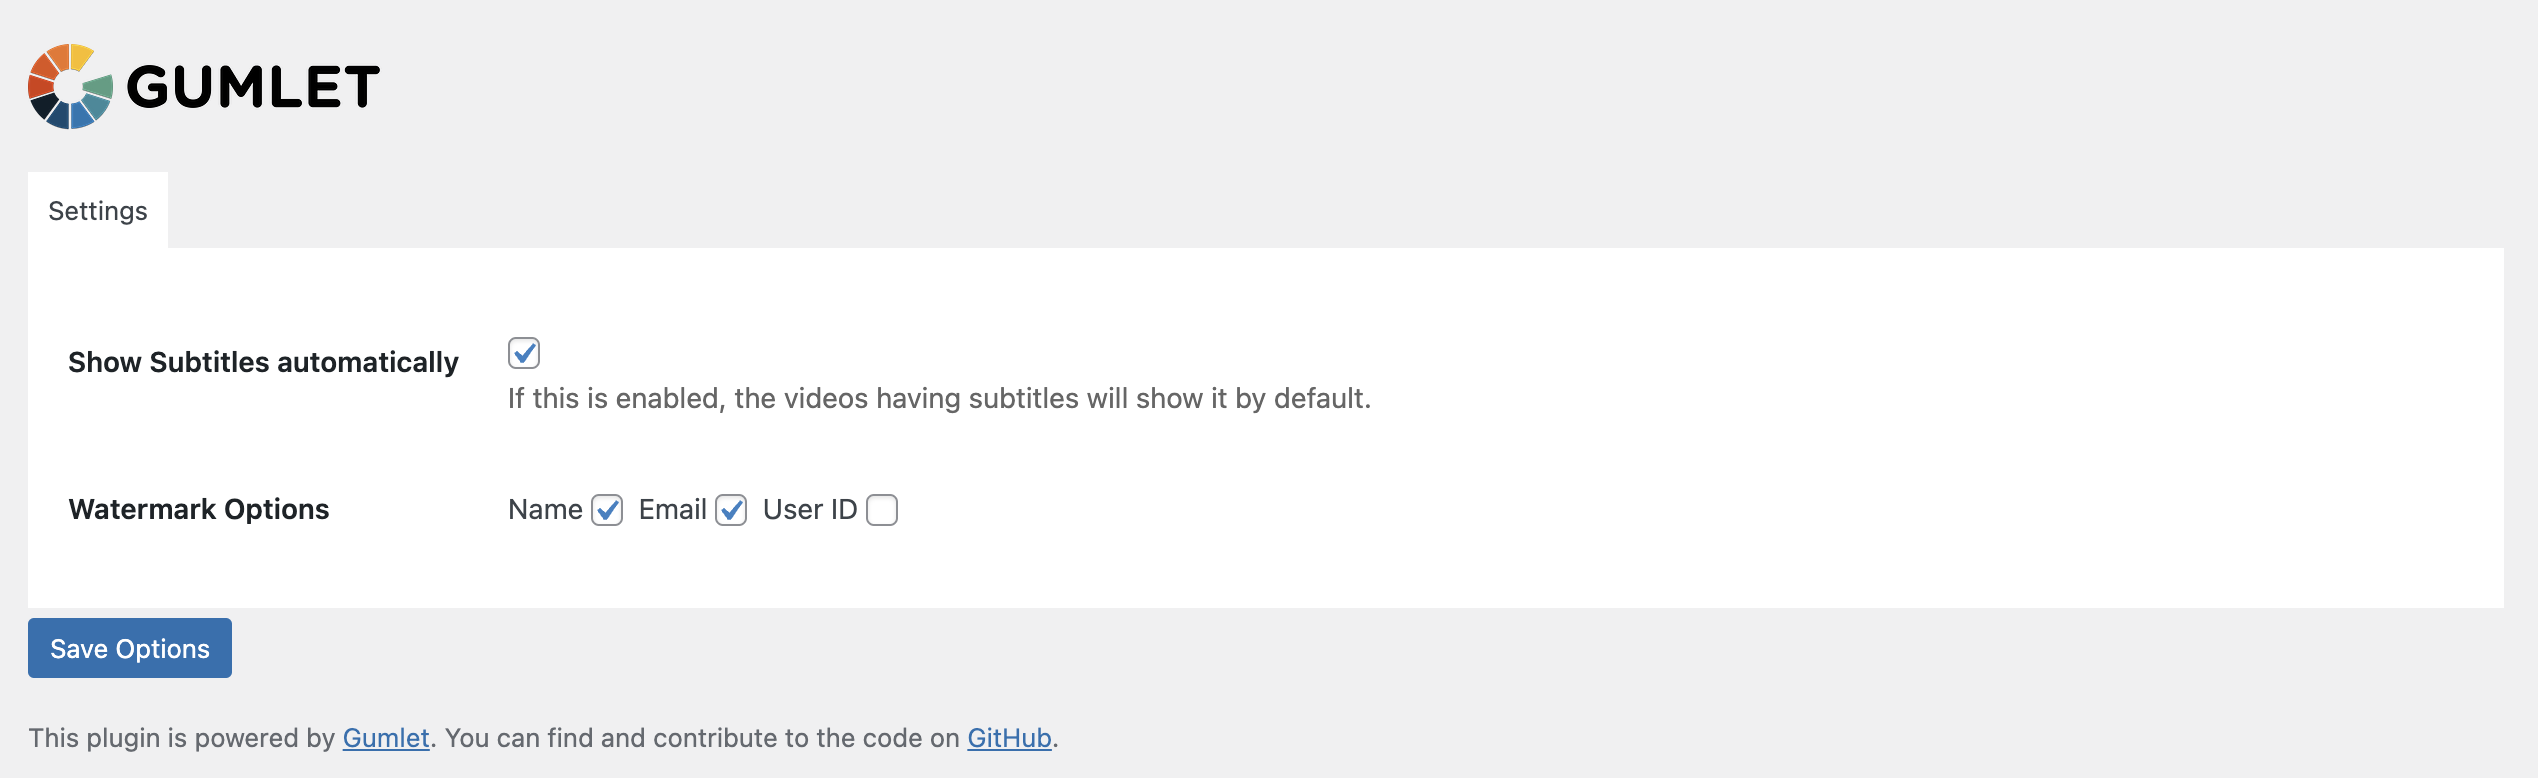
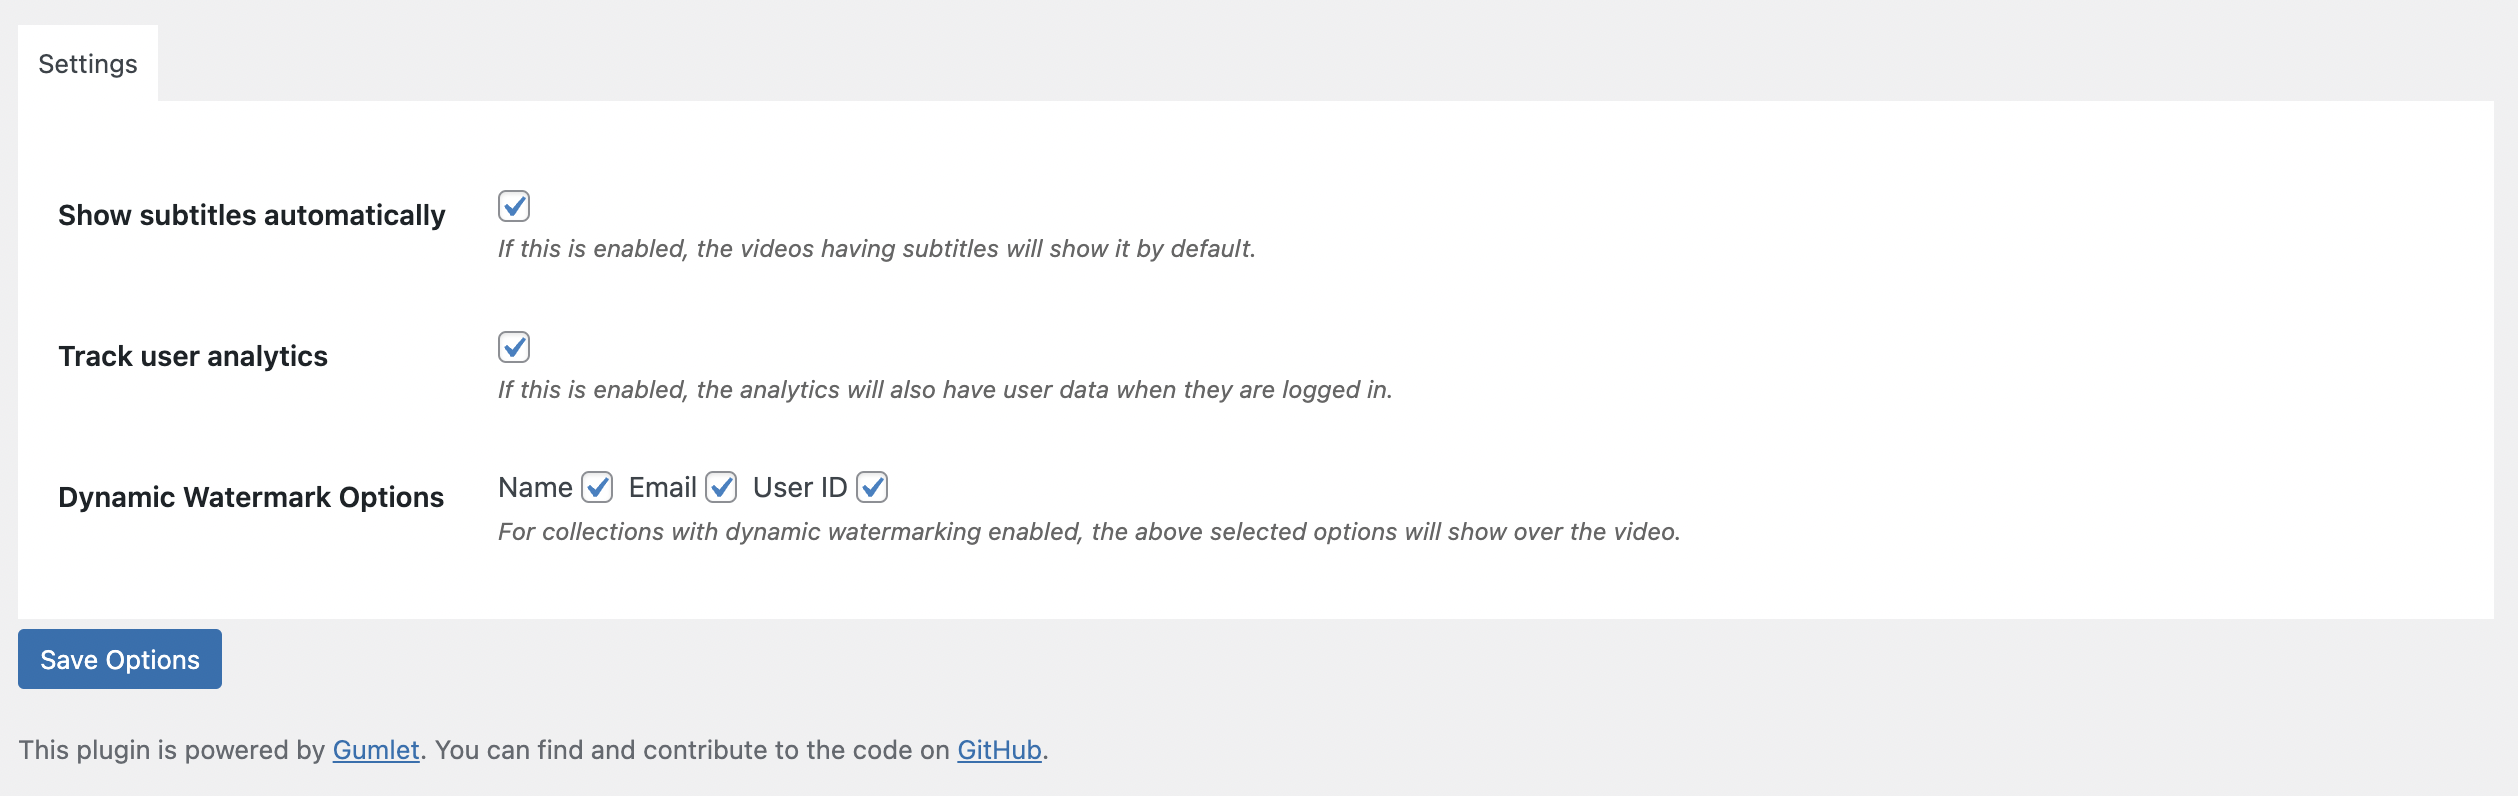
add support for user level analytics

diff --git a/includes/video-options.php b/includes/video-options.php
@@ -64,13 +64,25 @@ class Gumlet_Video_Settings
                         <tr>
                             <th>
                                 <label class="description" for="gumlet_default_cc_enabled">
-                                    <?php esc_html_e('Show Subtitles automatically', 'gumlet-video'); ?>
+                                    <?php esc_html_e('Show subtitles automatically', 'gumlet-video'); ?>
                                 </label>
                             </th>
                             <td>
                                 <input id="gumlet_default_cc_enabled" type="checkbox" name="gumlet_default_cc_enabled" value="1"
                                     <?php checked(get_option('gumlet_default_cc_enabled')) ?> />
                                 <p class="help-text">If this is enabled, the videos having subtitles will show it by default.</p>
+                            </td>
+                        </tr>
+                        <tr>
+                            <th>
+                                <label class="description" for="gumlet_default_user_analytics">
+                                    <?php esc_html_e('Track user analytics', 'gumlet-video'); ?>
+                                </label>
+                            </th>
+                            <td>
+                                <input id="gumlet_default_user_analytics" type="checkbox" name="gumlet_default_user_analytics" value="1"
+                                    <?php checked(get_option('gumlet_default_user_analytics')) ?> />
+                                <p class="help-text">If this is enabled, the analytics will also have user data when they are logged in.</p>
                             </td>
                         </tr>
                         <tr id="dynamic_watermark_options">
@@ -147,8 +159,14 @@ class Gumlet_Video_Settings
             }
             return ["dynamic_watermark_email" => 0, "dynamic_watermark_name"=> 0, "dynamic_watermark_user_id"=> 0];
         });
-
+        
         register_setting('gumlet_video_settings_group', 'gumlet_default_cc_enabled', function($input) {
+            if(!empty($input)) {
+                return filter_var( $input, FILTER_VALIDATE_BOOLEAN );
+            }
+            return 0;
+        });
+        register_setting('gumlet_video_settings_group', 'gumlet_default_user_analytics', function($input) {
             if(!empty($input)) {
                 return filter_var( $input, FILTER_VALIDATE_BOOLEAN );
             }
@@ -158,7 +176,7 @@ class Gumlet_Video_Settings
 
 
     public function load_plugin_script_files(){
-        wp_register_style('admin_tabs', esc_url(plugins_url('includes/assets/css/tabs.css', __DIR__)), false, '1.0.1');
+        wp_register_style('admin_tabs', esc_url(plugins_url('includes/assets/css/tabs.css', __DIR__)), false, '1.1');
         wp_enqueue_style('admin_tabs');
     }
     

diff --git a/gumlet-video.php b/gumlet-video.php
@@ -5,7 +5,7 @@ if ( ! defined( 'ABSPATH' ) ) exit;
  * Plugin Name:       Gumlet Video
  * Description:       Video Hosting Plugin for WordPress
  * Plugin URI:        https://github.com/gumlet/wordpress-video-plugin
- * Version:           1.0.1
+ * Version:           1.1
  * Author:            Gumlet
  * Author URI:        https://www.gumlet.com
  * Text Domain:       gumlet-video
@@ -36,6 +36,7 @@ function gumlet_video_shortcode($atts)
             'cc_enabled' => get_option('gumlet_default_cc_enabled'),
             'id'    => 'id',
             'annotate'=> true,
+            'user_analytics'=> get_option('gumlet_default_user_analytics'),
             'autoplay'=> false,
             'loop'=> false,
             'controls'=> 'on',
@@ -47,6 +48,7 @@ function gumlet_video_shortcode($atts)
     $id = $sc_args['id'];
     $annotate = $sc_args['annotate'];
     $cc_enabled = $sc_args['cc_enabled'];
+    $user_analytics = $sc_args['user_analytics'];
 
     if (!$atts['id']) {
         return "Required argument id for embedded video not found.";
@@ -55,7 +57,8 @@ function gumlet_video_shortcode($atts)
     }
     
     $watermark_text = '';
-    if($annotate) {
+    $logged_in = is_user_logged_in();
+    if($annotate && $logged_in) {
         $current_user = wp_get_current_user();
         if(isset($watermark['dynamic_watermark_name']) && $watermark['dynamic_watermark_name']) {
             $watermark_text .= $current_user->display_name . " ";
@@ -66,6 +69,12 @@ function gumlet_video_shortcode($atts)
         if(isset($watermark['dynamic_watermark_user_id']) && $watermark['dynamic_watermark_user_id']) {
             $watermark_text .= $current_user->ID;
         }
+    }
+    $analytics_text = '';
+    if($user_analytics && $logged_in) {
+        $analytics_text = 'gm_user_id='.$current_user->ID.
+                            '&gm_user_name='. urlencode($current_user->display_name).
+                            '&gm_user_email='.$current_user->user_email;
     }
    
     $uniq = 'u' . wp_rand();
@@ -83,7 +92,10 @@ function gumlet_video_shortcode($atts)
         $url .= "caption=true&";
     }
     if($watermark_text != '') {
-        $url .= "watermark_text=".$watermark_text;
+        $url .= "watermark_text=".$watermark_text."&";
+    }
+    if($analytics_text != '') {
+        $url .= $analytics_text;
     }
     if($width != "100%") {
         $opening_div = '<div>';
@@ -131,5 +143,8 @@ function gumlet_video_plugin_activate()
     }
     if(!get_option('gumlet_default_cc_enabled')) {
         update_option('gumlet_default_cc_enabled', 1);
+    }
+    if(!get_option('gumlet_default_user_analytics')) {
+        update_option('gumlet_default_user_analytics', 1);
     }
 }

diff --git a/README.md b/README.md
@@ -1,7 +1,7 @@
 # Gumlet Wordpress Video Plugin
 
 
-An official plugin by Gumlet for video embedding, dynamic watermark configuration and shortcode.
+An official plugin by Gumlet for video embedding, dynamic watermark configuration, user level analytics and shortcode.
 
 Description
 -----------
@@ -13,6 +13,7 @@ Description
 > * Use shortcode to embed videos quickly
 > * Responsive video embeds or use custom dimensions
 > * CDN delivery by AWS CloudFront (215+ locations)
+> * Track user level analytics for deeper insights
 
 This is the plugin you ever need to secure videos!
 
